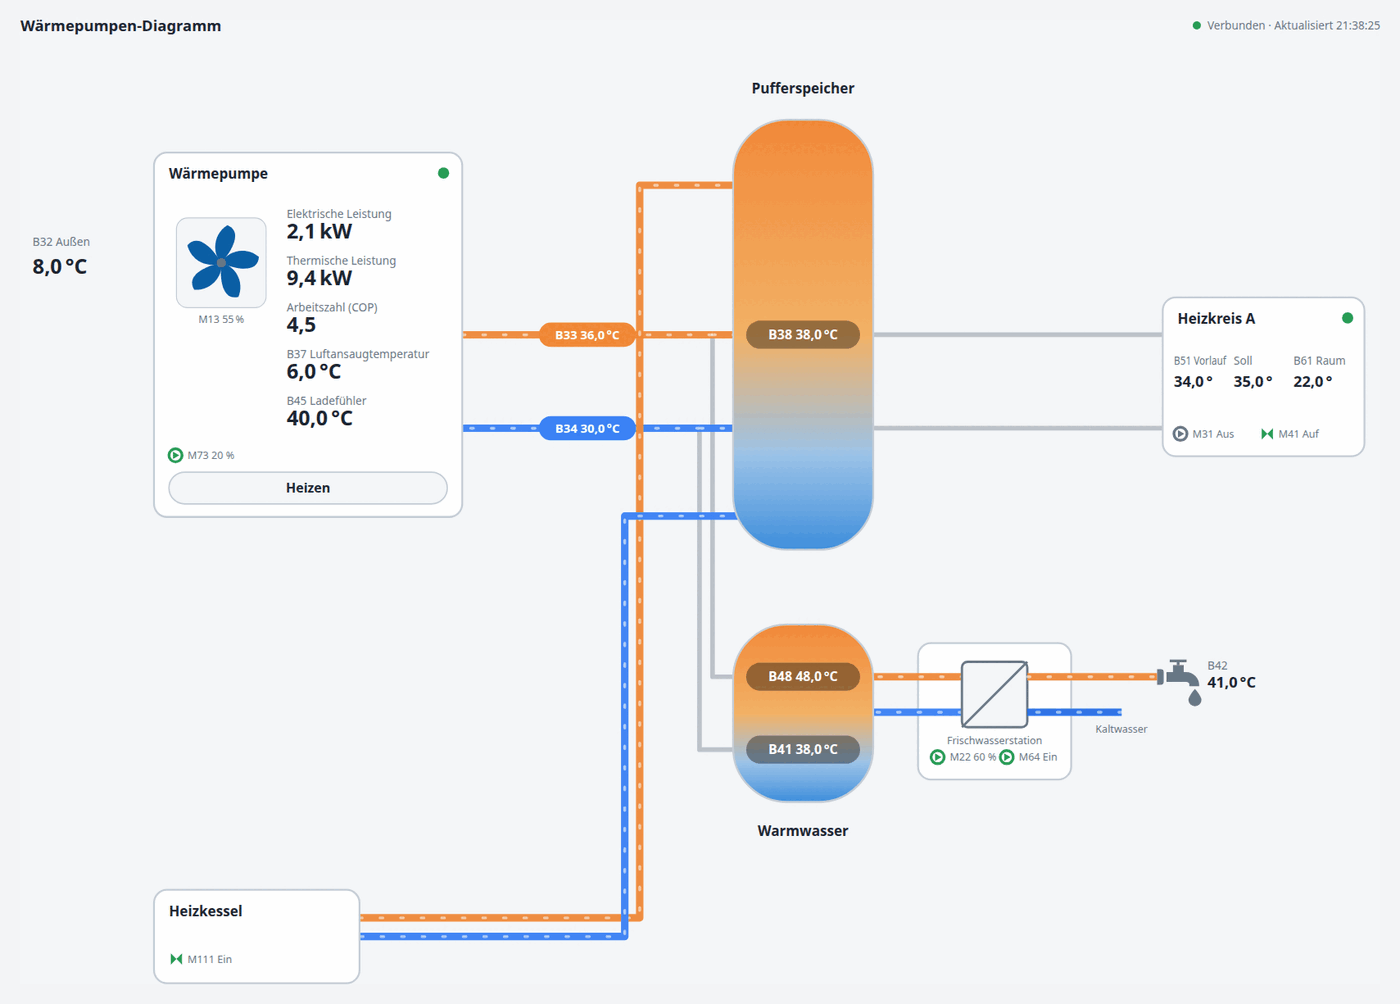
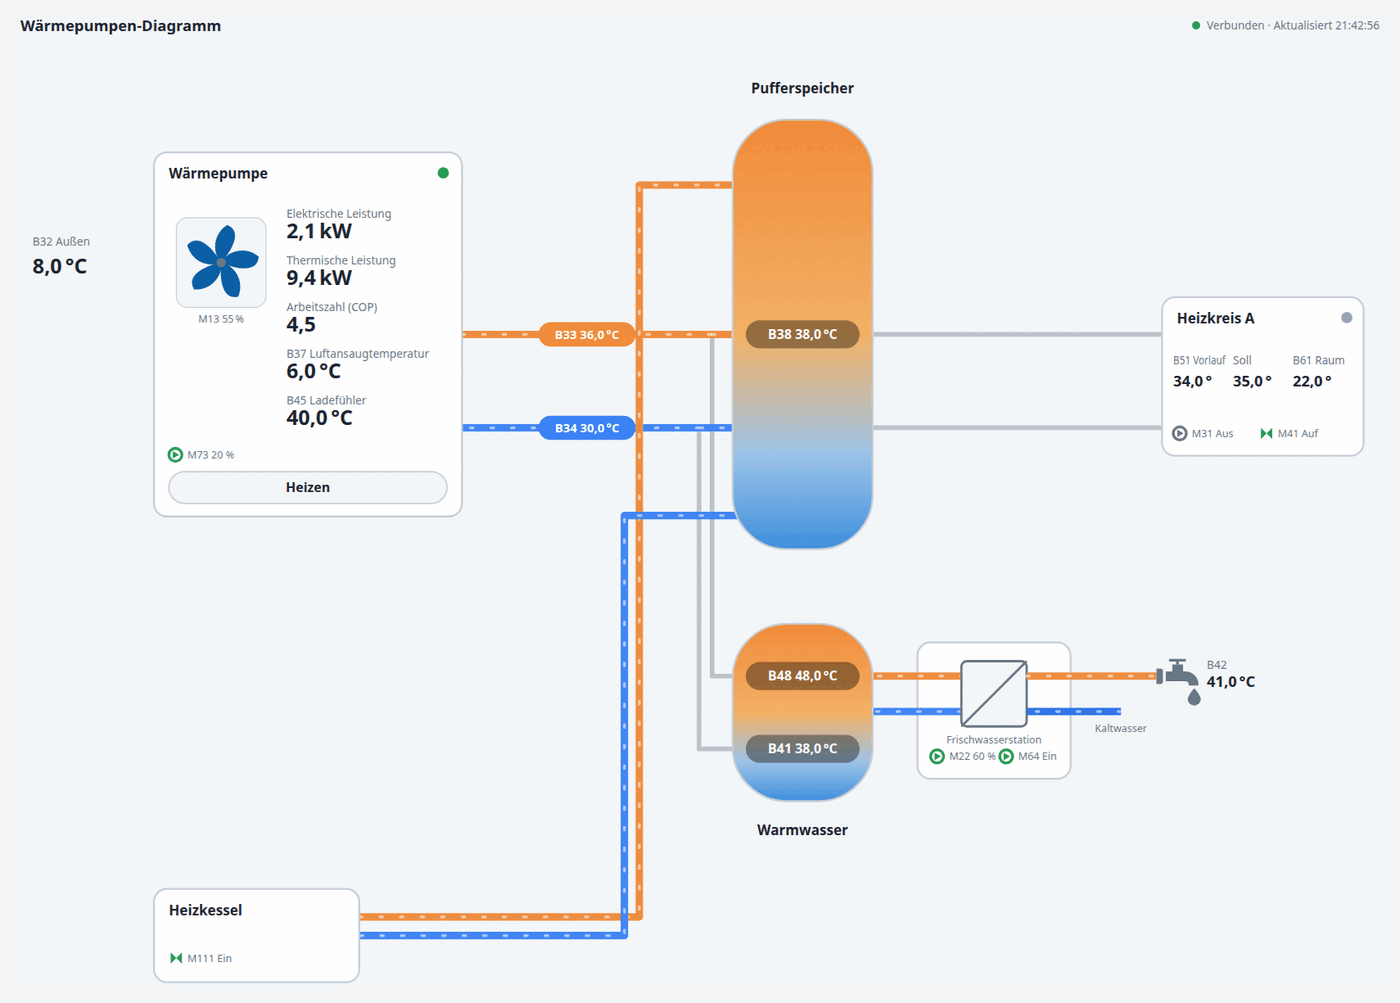
docs: circuit dot follows the pump; regenerate the diagram screenshots

diff --git a/docs/de/handbuch.md b/docs/de/handbuch.md
@@ -155,7 +155,7 @@ _Kühlen: Die Wärmepumpe lädt den Kältespeicher (Mitte, blau), der Heizkreis 
 - **Speicher** (Mitte): Warmwasser oben (B48) und in der Mitte (B41), der Wärmespeicher unten (B38). Drei Leitungen führen zur Wärmepumpe: Heißgasleitung (B35), Vorlauf (B33) und Rücklauf (B34). Ein Speicher mit weniger Fühlern zeigt weniger Ebenen.
 - **Frischwasserstation** (rechts vom Speicher, wenn die Warmwassertemperatur B42 gemeldet wird): der Wärmetauscher, der Kaltwasserzulauf und ein Wasserhahn mit B42 und der Warmwasser-Solltemperatur. Der Tropfen leuchtet, solange Warmwasser gezapft wird (Durchflussschalter B1).
 - **Zwei Behälter:** Mit eigenem Heizungspuffer hängt der Warmwasserbehälter unter dem Puffer und wird über eigene Leitungen geladen. Eine Kühlanlage mit Kältespeicher (B40) zeigt ihn als weiteren Behälter. Hat die Anlage keinen Heizungspuffer, gehen die Leitungen direkt zu den Heizkreisen.
-- **Heizkreise** (rechts): eine Karte je Heizkreis mit Vorlauftemperatur (B51 für Heizkreis A, B52 für B usw.), Solltemperatur, Raumtemperatur, seiner Pumpe (M31 für A, M32 für B, ...) und seinem Mischer (M41, ...). Ein Heizkreis mit Pumpe und ohne Mischer ist ein Direktheizkreis. Die Räume von Zonenmodul N stehen neben Heizkreis N; weitere Heizkreise stehen untereinander.
+- **Heizkreise** (rechts): eine Karte je Heizkreis mit Vorlauftemperatur (B51 für Heizkreis A, B52 für B usw.), Solltemperatur, Raumtemperatur, seiner Pumpe (M31 für A, M32 für B, ...) und seinem Mischer (M41, ...). Der Punkt in der Ecke der Karte ist grün, solange die Heizkreispumpe läuft. Ein Heizkreis mit Pumpe und ohne Mischer ist ein Direktheizkreis. Die Räume von Zonenmodul N stehen neben Heizkreis N; weitere Heizkreise stehen untereinander.
 - **Solar** (links unten, wenn die Anlage es hat): der Kollektor (B73), eine Rohrschlange im Speicher, Ladetemperatur (B74) und Rücklauf (B75) an den Leitungen, die Solarpumpen (M75, M76) und weitere Solarfühler im Kasten. Die Solarleitungen bewegen sich, solange die Pumpen laufen (ohne Pumpenwerte: solange B74 deutlich wärmer als B75 ist).
 - **Heizstab und Zirkulation:** die Stufen des Elektroheizstabs und die Warmwasser-Zirkulationspumpe (M64), wo die Anlage sie meldet.
 - **Weitere Wärmeerzeuger** (links unten): eine Kaskade von Wärmepumpen (laufende von verfügbaren Stufen für Heizen, Kühlen und Warmwasser; die Fühler der anderen Geräte werden nicht bereitgestellt), ein Öl- oder Gaskessel (Vorrangventil M111) und ein Kachelofen (Pumpe M88, Fühler B84). Ihre Leitungen münden in den Heizungspuffer, ohne Puffer in die Leitungen der Wärmepumpe, und bewegen sich, solange sie laufen. Der Kessel wird immer zum Heizungspuffer gezeichnet, auch wenn seine Ventile ihn auf den Warmwasserbehälter umschalten können.

diff --git a/docs/en/manual.md b/docs/en/manual.md
@@ -157,7 +157,7 @@ _Cooling: the heat pump charges the cold storage (middle, blue) and the circuit 
 - **Storage** (middle): hot water at the top (B48) and in the middle (B41), the heat storage at the bottom (B38). Three pipes lead to the heat pump: hot gas line (B35), flow (B33) and return (B34). A storage with fewer sensors shows fewer levels.
 - **Fresh water station** (right of the storage, when the tapping temperature B42 is reported): the heat exchanger, the cold water inlet and a faucet with B42 and the hot water setpoint. The drop is bright while hot water is drawn (flow switch B1).
 - **Two vessels:** with a separate heating buffer the hot water vessel hangs below the buffer and is charged by its own pipes. A cooling plant with a cold storage (B40) shows it as a further vessel. Where the plant has no heating buffer, the pipes go straight to the heating circuits.
-- **Heating circuits** (right): one card per circuit with its flow temperature (B51 for circuit A, B52 for B and so on), setpoint, room temperature, its pump (M31 for A, M32 for B, ...) and mixer (M41, ...). A circuit with a pump and no mixer is a direct circuit. The rooms of zone module N stand next to circuit N; more circuits stack below each other.
+- **Heating circuits** (right): one card per circuit with its flow temperature (B51 for circuit A, B52 for B and so on), setpoint, room temperature, its pump (M31 for A, M32 for B, ...) and mixer (M41, ...). The dot in the corner of the card is green while the circuit pump runs. A circuit with a pump and no mixer is a direct circuit. The rooms of zone module N stand next to circuit N; more circuits stack below each other.
 - **Solar thermal** (bottom left, when the plant has it): the collector (B73), a coil in the storage, charging (B74) and return (B75) on their pipes, the solar pumps (M75, M76) and further solar sensors in the box. The solar pipes move while the pumps run (without pump values: while B74 is clearly warmer than B75).
 - **Heating rod and circulation:** the stages of the electric heating rod and the hot water circulation pump (M64) where the plant reports them.
 - **Further heat generators** (bottom left): a cascade of heat pumps (stages running of the stages available for heating, cooling and hot water; the sensors of the other units are not exposed), an oil or gas boiler (priority valve M111) and a tiled stove (pump M88, sensor B84). Their pipes join the heating buffer, or the heat pump pipes where there is none, and move while they run. The boiler is always drawn to the heating buffer, although its valves may also switch it to the hot water vessel.
